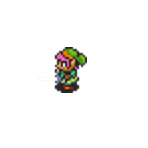
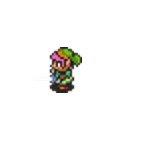
backup!

Changed region(s): [[0.3243, 0.2973, 0.5946, 0.6486]]

diff --git a/entity.js b/entity.js
@@ -1542,6 +1542,8 @@ function entity(croom)
 			{
 				this.shieldSprites[0].draw(can,this.x*32+this.xSmall+xOffset+shX+this.shakeTrack,this.y*32+this.ySmall+yOffset-14-this.fallingY*2+shY);
 			}
+			this.walkSprites[this.dir][this.walkTrack].draw(can,this.x*32+this.xSmall+xOffset+knuckx+this.shakeTrack+48,this.y*32+this.ySmall+yOffset-14-this.fallingY*2+knucky+44);
+			//somehow only draw section of sprite. 
 			this.pokeSprites[this.dir].draw(can,this.x*32+this.xSmall+xOffset+knuckx+this.shakeTrack,this.y*32+this.ySmall+yOffset-14-this.fallingY*2+knucky);
 			if((this.dir!=0) && (this.dir!=1) &&(this.has[hasID.Shield]))
 			{
